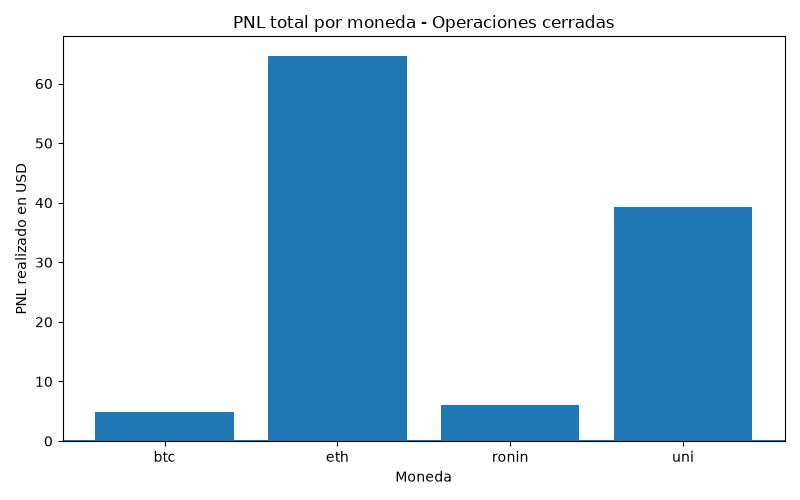
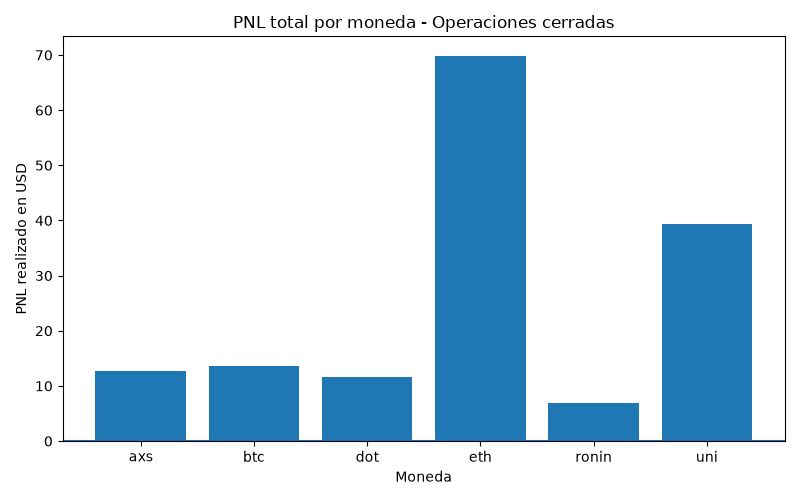
Agregando ganancias y perdidas totales en general para tener un paneo de perdidas/ganancias totales sumadas de todas las monedas

diff --git a/operacion-Compra-Venta.py b/operacion-Compra-Venta.py
@@ -267,6 +267,78 @@ def crear_grafico_pnl_por_moneda(compras, ventas):
     return nombre_grafico
 
 
+def crear_grafico_ganancias_perdidas_totales(ventas):
+    if ventas.empty:
+        return None
+
+    ganancias = ventas.loc[
+        ventas["PNL realizado"] > 0,
+        "PNL realizado"
+    ].sum()
+
+    perdidas = abs(
+        ventas.loc[
+            ventas["PNL realizado"] < 0,
+            "PNL realizado"
+        ].sum()
+    )
+
+    resultado_total = ganancias - perdidas
+
+    nombres = ["Ganancias", "Pérdidas", "Total"]
+    valores = [ganancias, -perdidas, resultado_total]
+
+    colores = ["green", "red", "blue"]
+
+    fig, (ax_grafico, ax_texto) = plt.subplots(
+        1,
+        2,
+        figsize=(11, 5),
+        gridspec_kw={"width_ratios": [3, 1]}
+    )
+
+    ax_grafico.bar(nombres, valores, color=colores)
+    ax_grafico.axhline(0, color="black")
+    ax_grafico.set_title("Ganancias y pérdidas totales")
+    ax_grafico.set_ylabel("USD")
+
+    for i, valor in enumerate(valores):
+        ax_grafico.text(
+            i,
+            valor,
+            f"${valor:.2f}",
+            ha="center",
+            va="bottom" if valor >= 0 else "top"
+        )
+
+    ax_texto.axis("off")
+
+    resumen = (
+        f"Ganancias:\n"
+        f"${ganancias:.2f}\n\n"
+        f"Pérdidas:\n"
+        f"${perdidas:.2f}\n\n"
+        f"Ganancia / Pérdida total:\n"
+        f"${resultado_total:.2f}"
+    )
+
+    ax_texto.text(
+        0.05,
+        0.8,
+        resumen,
+        fontsize=12,
+        va="top"
+    )
+
+    plt.tight_layout()
+
+    nombre_grafico = "grafico_ganancias_perdidas_totales.png"
+    plt.savefig(nombre_grafico)
+    plt.close()
+
+    return nombre_grafico
+
+
 def crear_resumen_trades_cerrados(compras, ventas):
     columnas = [
         "ID compra",
@@ -944,18 +1016,28 @@ def menu():
 
         elif opcion == "6":
             grafico_moneda, grafico_trades = guardar_datos(compras, ventas, historial)
+
+            grafico_total = crear_grafico_ganancias_perdidas_totales(ventas)
+
             print("\nExcel actualizado correctamente.")
             print("PNL trades cerrados y PNL por moneda actualizados.")
 
             if grafico_moneda:
-                print(f"GrÃ¡fico actualizado: {grafico_moneda}")
+                print(f"Grafico actualizado: {grafico_moneda}")
             else:
-                print("GrÃ¡fico PNL por moneda no generado: faltan ventas cerradas.")
+                print("Grafico PNL por moneda no generado: faltan ventas cerradas.")
 
             if grafico_trades:
-                print(f"GrÃ¡fico actualizado: {grafico_trades}")
+                print(f"Grafico actualizado: {grafico_trades}")
             else:
-                print("GrÃ¡fico trades cerrados no generado: faltan trades cerrados.")
+                print("Grafico trades cerrados no generado: faltan trades cerrados.")
+
+            if grafico_total:
+                print(f"Grafico ganancias/perdidas actualizado: {grafico_total}")
+            else:
+                print("Grafico ganancias/perdidas no generado: faltan ventas.")    
+
+                
 
         elif opcion == "7":
             grafico_boxplot, estadisticas = crear_grafico_boxplot_general_trades(compras, ventas)
